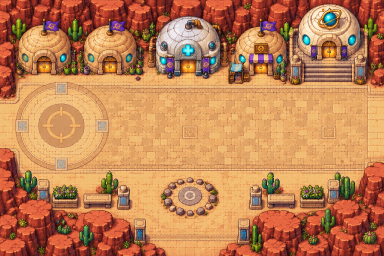
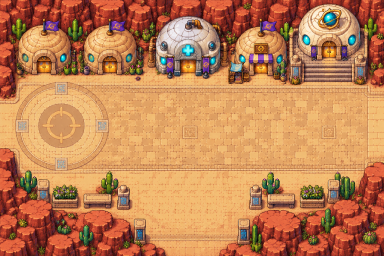
maps-v2: centre the Dustmere fountain
The fountain sits on the exact centre line between its two banner lamps, and the old
Bonfire Ring is painted out of the plaza art under it. Props can now take a pixel
offset (ox) and an explicit footprint width (w) for fine positioning.

Changed region(s): [[0.4062, 0.6875, 0.5938, 0.875]]

diff --git a/src/sections.js b/src/sections.js
@@ -120,7 +120,7 @@ function drawSec(){const s=SWORLD[G.sec.id],p=SM?SM.t/SM.n:0,jp=SJ?SJ.t/SEC_JUMP
  const kp=PL[G.planet]&&PL[G.planet].keeper;for(const o of s.objects||[])if(o.k==='keeper'&&kp)people.push({y:o.tile[1]*16,draw:()=>secDrawChar(kp.art,'down',o.tile[0]*16-cx,o.tile[1]*16-cy,0)});
  people.push({y:py,me:1,draw:()=>{const k=(G.gender||'boy');if(hop){ctx.fillStyle='rgba(20,10,20,0.3)';ctx.beginPath();ctx.ellipse(px-cx+8,py-cy+15,5,2,0,0,6.283);ctx.fill()}const rd=secDrawRide(s,px-cx,py-cy-hop),hv=!rd&&secHoverOn(s);if(hv)secDrawBoard(px-cx,py-cy-hop);secDrawChar(k,face,px-cx,py-cy-hop-(hv?3:0)-rd,hv?0:SM&&p>0.25&&p<0.75?1:0,true)}});
  // walk-behind props: each cut-out sorts with the people by its base row, so whoever stands behind it is drawn first
- if(s.props)for(const[u,x,y,w,h,pw,ph]of s.props){const im=PROPI(u),X=Math.round(x*16+(w*16-pw)/2-cx),Y=(y+h)*16-ph-cy;if(X>160||X+pw<0||Y>144||Y+ph<0)continue;people.push({y:(y+h-1)*16+1,draw:()=>{if(okI(im))ctx.drawImage(im,X,Y)}})}
+ if(s.props)for(const[u,x,y,w,h,pw,ph,ox]of s.props){const im=PROPI(u),X=Math.round(x*16+(w*16-pw)/2+(ox||0)-cx),Y=(y+h)*16-ph-cy;if(X>160||X+pw<0||Y>144||Y+ph<0)continue;people.push({y:(y+h-1)*16+1,draw:()=>{if(okI(im))ctx.drawImage(im,X,Y)}})}
  if(s.over){const ov=SECOVI[s.id];if(okI(ov))for(const[x,y0,h,by]of s.over){const X=x*16-cx,Y=y0*16-cy;if(X<-16||X>160||Y>144||Y+h*16<0)continue;people.push({y:by*16+1,draw:()=>ctx.drawImage(ov,x*16,y0*16,16,h*16,X,Y,16,h*16)})}}
  secFollowDraw(people,s,cx,cy,p);secNeighbours(s,people,cx,cy);people.sort((a,b)=>a.y-b.y).forEach(o=>o.draw());
  for(const m of s.mons||[]){if(G.monGone&&(s.id+':'+m.x+','+m.y) in G.monGone)continue;const im=OWI[shownMon(m.mon,0)];if(!okI(im))continue;const X=m.x*16-cx,Y=m.y*16-cy;if(X<-24||Y<-24||X>176||Y>160)continue;

diff --git a/tools/build.js b/tools/build.js
@@ -82,8 +82,8 @@ const SECW=fs.existsSync(path.join(root,'data/world.json'))?JSON.parse(fs.readFi
 // footprint = sprite width in tiles x h rows (default 1), solid props block it. Drawn bottom-aligned on the footprint, depth-sorted with people.
 const PL_=fs.existsSync(path.join(root,'data/sections/props_layout.json'))?JSON.parse(fs.readFileSync(path.join(root,'data/sections/props_layout.json'),'utf8')):{},PROPS={};
 function props(id,rows){const L=PL_[id];if(!L||!L.length)return rows;const R=rows.map(r=>r.split(''));PROPS[id]=[];
- for(const q of L){const f='art/props/'+q.p+'.png';if(!fs.existsSync(f))continue;const b=fs.readFileSync(f),pw=b.readUInt32BE(16),ph=b.readUInt32BE(20),w=Math.max(1,Math.round(pw/16)),h=q.h||1;
-  PROPS[id].push([asset(f),q.x,q.y,w,h,pw,ph]);if(q.solid!==false)for(let y=q.y;y<q.y+h;y++)for(let x=q.x;x<q.x+w;x++)if(R[y]&&R[y][x]!==undefined)R[y][x]='#'}
+ for(const q of L){const f='art/props/'+q.p+'.png';if(!fs.existsSync(f))continue;const b=fs.readFileSync(f),pw=b.readUInt32BE(16),ph=b.readUInt32BE(20),w=q.w||Math.max(1,Math.round(pw/16)),h=q.h||1;
+  PROPS[id].push([asset(f),q.x,q.y,w,h,pw,ph,q.ox||0]);if(q.solid!==false)for(let y=q.y;y<q.y+h;y++)for(let x=q.x;x<q.x+w;x++)if(R[y]&&R[y][x]!==undefined)R[y][x]='#'}
  return R.map(r=>r.join(''))}
 const PB=fs.existsSync(path.join(root,'data/sections/pass_behind.json'))?JSON.parse(fs.readFileSync(path.join(root,'data/sections/pass_behind.json'),'utf8')):{},SECOV={};
 function behind(id,rows){const p=PB[id];if(!p)return rows;const R=rows.map(r=>r.split(''));for(const[x,y]of p.tiles)if(R[y]&&R[y][x]==='#')R[y][x]=':';return R.map(r=>r.join(''))}

diff --git a/tools/props/place_props.py b/tools/props/place_props.py
@@ -33,7 +33,7 @@ HAND = {
   ('01_dustara/28', 7, 7), ('01_dustara/44', 8, 7), ('01_dustara/24', 10, 7), ('01_dustara/02', 11, 7),
   ('01_dustara/36', 14, 7), ('01_dustara/13', 15, 7), ('01_dustara/45', 16, 7), ('01_dustara/43', 18, 7), ('01_dustara/15', 20, 7), ('01_dustara/36', 21, 7),
   ('01_dustara/02', 9, 9), ('01_dustara/02', 15, 9), ('01_dustara/06', 17, 9), ('01_dustara/42', 22, 9),
-  ('01_dustara/28', 9, 12), ('01_dustara/36', 14, 12), ('01_dustara/67', 10, 12, 2)],
+  ('01_dustara/28', 9, 12), ('01_dustara/36', 14, 12), ('01_dustara/67', 10, 12, 2, {'ox': 8, 'w': 4})],
  '008': [('01_dustara/44', 5, 5), ('01_dustara/45', 17, 5), ('01_dustara/13', 11, 5), ('01_dustara/13', 16, 5),
          ('01_dustara/26', 3, 10), ('01_dustara/26', 8, 10), ('01_dustara/26', 13, 10), ('01_dustara/26', 18, 10)],
  '018': [('04_thalassa/40', 12, 5), ('04_thalassa/44', 14, 5), ('04_thalassa/08', 6, 5), ('04_thalassa/08', 11, 5),
@@ -80,15 +80,15 @@ for sid in sys.argv[1:]:
         if v: hard.add(tuple(v))
     if sid in HAND:
         for item in HAND[sid]:
-            p, x, y = item[:3]; h = item[3] if len(item) > 3 else 1
-            w, _ = size(p); fp = [(x + i, y + j) for i in range(w) for j in range(h)]
+            p, x, y = item[:3]; h = item[3] if len(item) > 3 else 1; ext = item[4] if len(item) > 4 else {}
+            w = ext.get('w') or size(p)[0]; fp = [(x + i, y + j) for i in range(w) for j in range(h)]
             bad = [t for t in fp if t in hard]   # hand layouts may stand on drawn scenery; only doors, warps, counters and spawns are off limits
             old = [rows[b][a] for a, b in fp]
             for a, b in fp: rows[b][a] = '#'
             if bad or not reach_ok():
                 print('  SKIP', p, x, y, 'blocked/key' if bad else 'cuts a path', bad)
                 for (a, b), c in zip(fp, old): rows[b][a] = c
-            else: out.append({'p': p, 'x': x, 'y': y, **({'h': h} if h > 1 else {})})
+            else: out.append({'p': p, 'x': x, 'y': y, **({'h': h} if h > 1 else {}), **ext})
         pal = []
     for kind, props, n in pal:
         for _ in range(n):

diff --git a/tools/sections/build_world.py b/tools/sections/build_world.py
@@ -31,7 +31,7 @@ def open(path, *a, **k):
             for q in _PROPS[sid]:
                 if q.get('solid') is False or not os.path.exists(os.path.join(ROOT, 'art/props', q['p'] + '.png')): continue
                 for y in range(q['y'], q['y'] + q.get('h', 1)):
-                    for x in range(q['x'], q['x'] + _prop_w(q['p'])):
+                    for x in range(q['x'], q['x'] + (q.get('w') or _prop_w(q['p']))):
                         if 0 <= y < len(R) and 0 <= x < len(R[y]): R[y][x] = '#'
             d['rows'] = [''.join(r) for r in R]; return io.StringIO(json.dumps(d))
     return _open(path, *a, **k)

diff --git a/docs/LINKER_STASHES.md b/docs/LINKER_STASHES.md
@@ -9,7 +9,7 @@ Items get better with the story: tier 1 (Dustara, Ferrox) up to tier 7 (Apex Arr
 
 | Section | Tile | Item | Tier |
 |---|---|---|---|
-| 004 Dustmere Plaza | 10,15 | 150x Stardust | 1 |
+| 004 Dustmere Plaza | 5,12 | 150x Stardust | 1 |
 | 007 Dustmere Bridge | 11,4 | 3x Stasis Pod | 1 |
 | 008 Trading Post | 9,10 | 2x Cure Spray | 1 |
 | 009 Rimwalk Trail Part A | 6,12 | 2x Med Gel | 1 |
